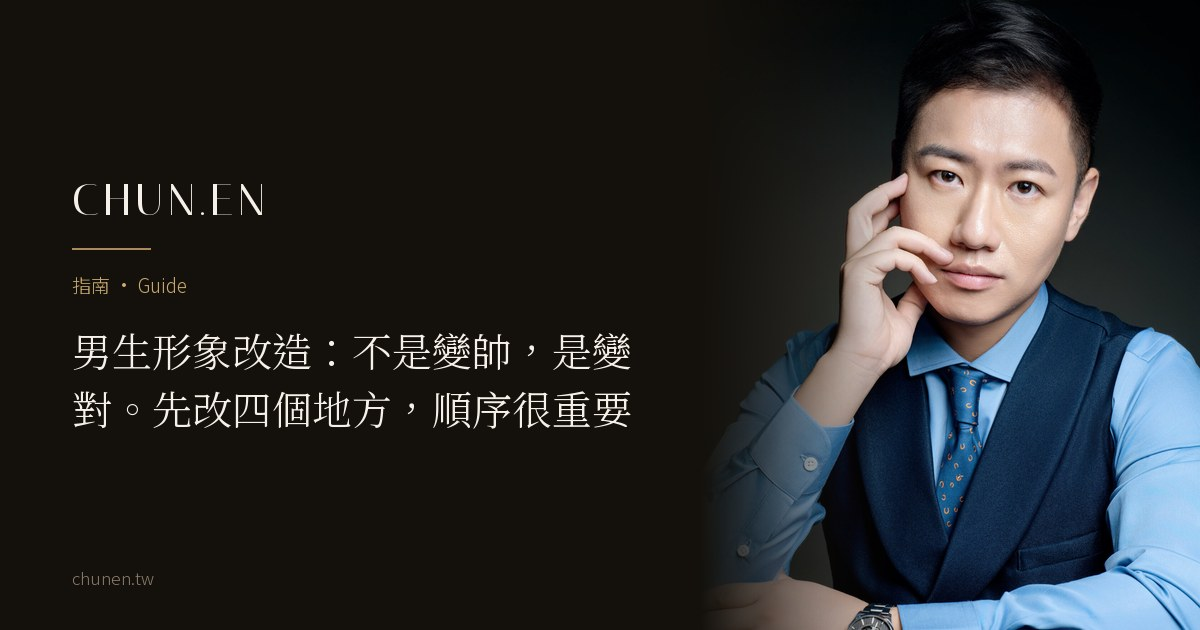
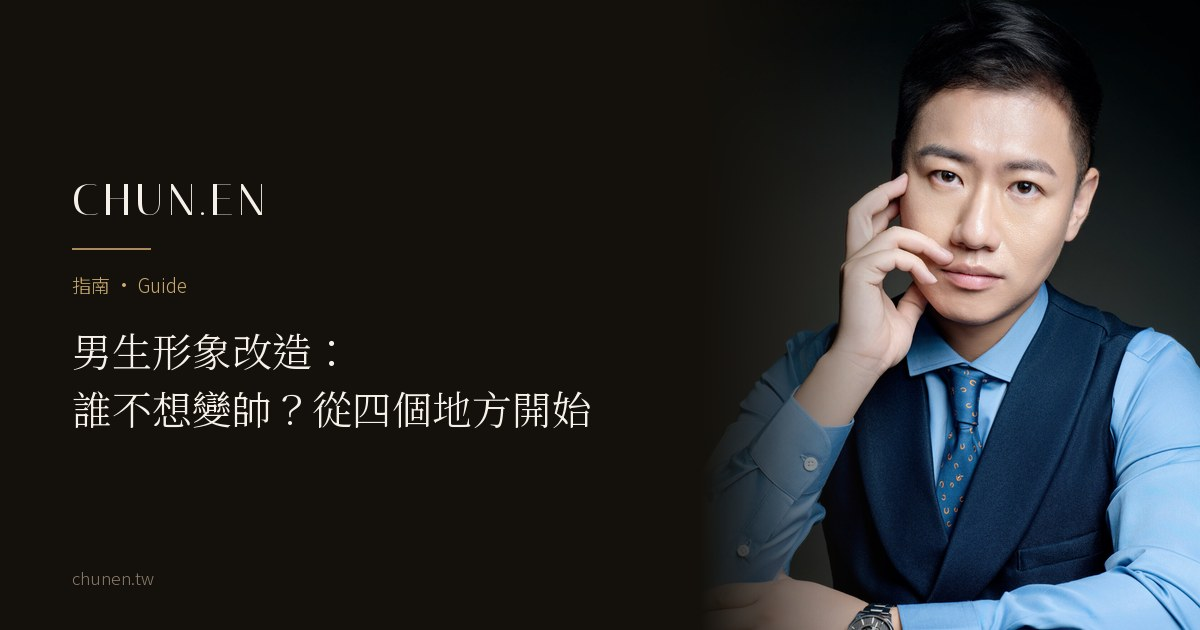
男士專欄兩篇照整合全文稿 v4 定稿上架（拿掉 noindex、加進專欄列表與 sitemap、重產分享卡）

Changed region(s): [[0.0617, 0.5127, 0.5242, 0.6937]]

diff --git a/journal/mens-image-makeover.html b/journal/mens-image-makeover.html
@@ -3,16 +3,15 @@
 <head>
   <meta charset="UTF-8" />
   <meta name="viewport" content="width=device-width, initial-scale=1.0, viewport-fit=cover" />
-  <title>男生形象改造：不是變帥，是變對。先改四個地方，順序很重要｜CHUN.EN 觀點</title>
-  <meta name="robots" content="noindex" /><!-- 草稿：Kay 審核後移除此行＋掛列表頁＋入 sitemap -->
-  <meta name="description" content="男生想改變形象，多半是有一場要見人的場合，或被說看起來很累。變帥是往範本靠，變對是讓人一眼看懂你現在的角色。四個最有效的改動有順序：髮型輪廓、合身、末端細節、膚況整理，前兩個做完八成的落差就沒了。" />
+  <title>男生形象改造：誰不想變帥？從四個地方開始｜CHUN.EN 觀點</title>
+  <meta name="description" content="男生想改變形象，常常是有重要的場合：面試、跑業務、上台，或是約會。想變帥很正常，關鍵在把自己的特質整理出來，穿得自在，自信就看得見。建議從四個地方動手：髮型輪廓、合身、末端細節、膚況與妝髮，先做花費少、改起來快的。" />
   <meta name="theme-color" content="#14100B" />
   <link rel="icon" href="/favicon.ico" sizes="48x48" />
   <link rel="icon" href="/favicon-32.png" type="image/png" sizes="32x32" />
   <link rel="apple-touch-icon" href="/apple-touch-icon.png" />
   <link rel="canonical" href="https://chunen.tw/journal/mens-image-makeover.html" />
-  <meta property="og:title" content="男生形象改造：不是變帥，是變對。先改四個地方，順序很重要" />
-  <meta property="og:description" content="男生的形象改造，第一件事不是買衣服，是先弄清楚你現在被看成什麼。" />
+  <meta property="og:title" content="男生形象改造：誰不想變帥？從四個地方開始" />
+  <meta property="og:description" content="想變帥很正常。把自己的特質整理出來，穿得自在，自信就看得見。" />
   <meta property="og:image" content="https://chunen.tw/assets/og/mens-image-makeover-og.jpg" />
   <meta property="og:image:width" content="1200" />
   <meta property="og:image:height" content="630" />
@@ -20,8 +19,8 @@
   <meta property="og:type" content="article" />
   <meta property="og:locale" content="zh_TW" />
   <meta name="twitter:card" content="summary_large_image" />
-  <meta name="twitter:title" content="男生形象改造：不是變帥，是變對。先改四個地方，順序很重要" />
-  <meta name="twitter:description" content="男生的形象改造，第一件事不是買衣服，是先弄清楚你現在被看成什麼。" />
+  <meta name="twitter:title" content="男生形象改造：誰不想變帥？從四個地方開始" />
+  <meta name="twitter:description" content="想變帥很正常。把自己的特質整理出來，穿得自在，自信就看得見。" />
   <meta name="twitter:image" content="https://chunen.tw/assets/og/mens-image-makeover-og.jpg" />
   <link rel="preconnect" href="https://fonts.googleapis.com" />
   <link rel="preconnect" href="https://fonts.gstatic.com" crossorigin />
@@ -70,7 +69,7 @@
     <header style="padding: clamp(9rem, 16vh, 11rem) 0 clamp(2rem, 4vh, 3rem);">
       <div class="wrap article-wrap">
         <p class="hero-eyebrow rv">指南 · Guide</p>
-        <h1 class="rv rv-d1" style="font-weight: 300; font-size: clamp(1.9rem, 4.4vw, 3.2rem); line-height: 1.4; margin-top: 1rem;"><span style="white-space:nowrap;">男生形象改造：</span><span style="white-space:nowrap;"><em style="font-style:normal;color:var(--gold-light);">不是變帥，是變對。先改四個地方，順序很重要</em></span></h1>
+        <h1 class="rv rv-d1" style="font-weight: 300; font-size: clamp(1.9rem, 4.4vw, 3.2rem); line-height: 1.4; margin-top: 1rem;"><span style="white-space:nowrap;">男生形象改造：</span><em style="font-style:normal;color:var(--gold-light);"><span style="white-space:nowrap;">誰不想變帥？</span><wbr><span style="white-space:nowrap;">從四個地方開始</span></em></h1>
         <p class="article-meta rv rv-d2">CHUN.EN 觀點 · 2026 · 閱讀約 5 分鐘</p>
       </div>
     </header>
@@ -83,64 +82,64 @@
       <div class="keypoints rv">
         <p class="kp-t">In This Article · 本文重點</p>
         <ul>
-          <li>男生想改變形象，多半不是想變帥，是有一場要見人的場合，或是被說「看起來很累」</li>
-          <li>變帥和變對差在哪：變帥是往一個範本靠，變對是讓別人一眼看懂你現在的角色</li>
-          <li>四個最有效的改動有順序：髮型輪廓、合身、末端細節、膚況整理。前兩個做完，八成的落差就沒了</li>
+          <li>男生想改變形象，常常是有重要的場合，或是被說氣色不好、沒精神。想變帥很正常，每個人改變，都是想變得更好</li>
+          <li>帥不必照著範本：把自己的特質整理出來，穿得自在，自信和魅力就會出來</li>
+          <li>建議從四個地方動手：髮型輪廓、合身、末端細節、膚況與妝髮。先做前兩個，花費少、改起來也快</li>
         </ul>
       </div>
 
       <div class="article-body rv">
-        <p class="article-lead">男生很少會說「我想做形象改造」。比較常聽到的是：下個月要面試、要開始跑業務、剛升上主管要對外簡報、要拍一張放在官網上的照片，或是被另一半、被同事說「你最近看起來很累」。</p>
-        <p>這些都是同一件事的不同入口。不是想變帥，是覺得現在的樣子，和自己要去的地方對不上。</p>
-        <p>男生的形象改造，不是換一個人，也不是往某個帥的範本靠，而是把髮型、服裝、細節與膚況整理到能對得上你現在的角色與場合。多數人的落差不在大項，在幾個小地方的累積，而且改動有順序。</p>
-        <h2>變帥和變對，<em>差在哪</em></h2>
-        <p>變帥是往一個範本靠：某位藝人的髮型、某個品牌的穿法。問題是那個範本不是為你的職業、你的客戶、你的場合設計的。一位工程師照著時尚雜誌改完，走進客戶的會議室，對方讀到的可能是「這個人在意穿搭」，而不是「這個人可靠」。</p>
-        <p>變對是反過來：先弄清楚別人現在怎麼看你、你希望他們怎麼看你，中間差在哪，再決定改什麼。同樣是改髮型，一位要開始帶團隊的主管和一位要開始接案的設計師，該往的方向不一樣。</p>
-        <blockquote>男生的形象改造，第一件事不是買衣服，是先弄清楚你現在被看成什麼。多數人跳過這一步，改完更不像自己。</blockquote>
+        <p class="article-lead">男生很少會說「我想做形象改造」。比較常聽到的是：下個月要面試、要開始跑業務、剛升上主管要對外簡報、要去約會、要拍一張放在官網上的照片，或是被另一半、被同事說「你最近氣色不太好」。</p>
+        <p>這些入口背後，其實是同一個念頭：想讓自己看起來更好。說白了，就是想變帥。這一點都不奇怪，每個人想改變，都是想變得更好。</p>
+        <p>要談的是怎麼變。男生的帥，很少來自長得像誰，多半來自看起來像自己：髮型、服裝、細節與膚況整理到位，穿起來自在，人就放得開，自信和魅力也跟著出來。要動的常常是幾個小地方，而且有先後。</p>
+        <h2>帥從<em>哪裡來</em></h2>
+        <p>很多人想變帥，第一步是找範本：某位藝人的髮型、某個品牌的穿法。範本可以參考，但它不是照你的臉型、身材、個性和生活設計的。照著改完，常見的情況是衣服很搶眼，人卻不太自在；穿得不自在，人很難放鬆，自信反而出不來。</p>
+        <p>比較好的做法是先看自己：你給人的感覺是沉穩、俐落，還是親切？平常會出現在哪些場合？你希望別人看到你哪一面？把這些想清楚，再決定改什麼。同樣是改髮型，一位要開始帶團隊的主管和一位要開始接案的設計師，適合的方向就不一樣。改完之後，別人看到的還是你，只是更有精神，也更有自信。</p>
         <p>這件事在〈<a href="which-version-of-you.html">先想清楚，要讓人看見哪一面</a>〉談得更完整。以下講的是方向確定之後，實際該從哪裡動手。</p>
         <h2>四個改動，<em>順序很重要</em></h2>
-        <p>男生的專業形象很少輸在大項，輸在小地方的累積。但也正因為這樣，改對幾個地方就會有明顯的差別。順序是依「影響力除以成本」排的：</p>
+        <p>改對幾個地方，就會有明顯的差別。我們通常建議從花費少、改起來快的開始：</p>
         <div class="tbl-scroll">
         <table>
           <thead><tr><th>順序</th><th>改什麼</th><th>為什麼先做</th><th>大概要做什麼</th></tr></thead>
           <tbody>
-            <tr><td>1</td><td>髮型輪廓</td><td>臉的外框，決定精神度；成本最低、效果最快</td><td>鬢角與後頸線乾淨、頂部有型；三到四週修一次。不是換髮型，是把現在的髮型修到有輪廓</td></tr>
+            <tr><td>1</td><td>髮型輪廓</td><td>臉的外框，影響整個人看起來有沒有精神；花費最少、改起來最快</td><td>鬢角與後頸線乾淨、頂部有型；三到四週修一次。不是換髮型，是把現在的髮型修到有輪廓</td></tr>
             <tr><td>2</td><td>合身</td><td>一件合身的舊西裝，比一件不合身的新西裝好；鏡頭與現實都看得出來</td><td>肩線落在肩點、袖長露出襯衫一點、褲長輕觸鞋面。既有的衣服先拿去修改，通常比買新的划算</td></tr>
-            <tr><td>3</td><td>末端細節</td><td>資深的對象看的是鞋、錶、領口、指甲</td><td>皮鞋有光、鞋跟不磨斜；領口不鬆垮不泛黃；指甲與鬍子有意識地處理</td></tr>
-            <tr><td>4</td><td>膚況與妝感</td><td>油光、眼下疲態、膚色不均，是「看起來很累」的來源；也是照片與上台最先被看到的</td><td>基本清潔保濕；重要場合或拍攝前交給造型師做自然整理，不需要看得出化了妝</td></tr>
+            <tr><td>3</td><td>末端細節</td><td>鞋、錶、領口、指甲，是整套穿搭的收尾</td><td>皮鞋依材質保養、鞋跟沒有明顯磨損；領口不鬆垮不泛黃；指甲與鬍子有意識地處理</td></tr>
+            <tr><td>4</td><td>膚況與妝髮</td><td>油光、眼下疲態、膚色不均，常讓人看起來氣色不好、沒精神，照片與上台時也會被放大</td><td>日常做好清潔與保濕；重要場合或拍攝前，可以請造型師協助膚色修飾與妝髮整理。妝感的濃淡與造型方向，依場合和個人喜好討論</td></tr>
           </tbody>
         </table>
         </div>
-        <p>前兩項做完，八成的落差通常就沒了。第三、四項是把「還可以」推到「這個人對細節是清楚的」。</p>
+        <p>前兩項先做好，整體會俐落很多；第三、四項是收尾，讓細節也跟得上。</p>
         <p>逐項的檢查清單，在〈<a href="mens-grooming-checklist.html">男士商務形象自檢十二項</a>〉可以照著跑一次。</p>
         <figure class="article-fig crop45">
-          <picture style="display:block"><source type="image/webp" srcset="../assets/gallery/works/06-760.webp 760w, ../assets/gallery/works/06-1240.webp 1240w" sizes="(max-width: 700px) calc(100vw - 40px), 620px" /><img src="../assets/gallery/works/06-1400.jpg" alt="灰西裝黑襯衫的男性形象照，髮型輪廓與合身是最先看到的兩件事" width="1400" height="2100" loading="lazy" /></picture>
-          <figcaption>髮型輪廓與合身做對，八成的落差就沒了；細節與膚況是把「還可以」推到「這個人對細節是清楚的」。（CHUN.EN 實際拍攝作品）</figcaption>
+          <picture style="display:block"><source type="image/webp" srcset="../assets/gallery/works/06-760.webp 760w, ../assets/gallery/works/06-1240.webp 1240w" sizes="(max-width: 700px) calc(100vw - 40px), 620px" /><img src="../assets/gallery/works/06-1400.jpg" alt="灰西裝黑襯衫的男性形象照" width="1400" height="2100" loading="lazy" /></picture>
+          <figcaption>髮型與合身整理好之後的商務形象。（CHUN.EN 實際拍攝作品）</figcaption>
         </figure>
-        <h2>最常見的三個錯</h2>
+        <h2>常見的三個錯</h2>
         <p>為了改變而全部換新。新衣服不會服貼身體與慣性姿態，鏡頭全部看得出來。先修改既有的，再決定要補什麼。</p>
         <p>只改衣服不改頭。髮型是臉的外框，衣服再對、輪廓不對，讀起來還是沒精神。</p>
-        <p>改成另一個人。同事與客戶認得的是原本的你，改到需要重新認一次，反而扣分。變對的意思是「還是你，但更清楚」。</p>
+        <p>改成另一個人。同事與客戶認得的是原本的你，改到需要重新認一次，反而扣分。帥要建立在你自己的特質上，改完還是你，只是更好看、更有自信。</p>
         <h2>場合決定力度</h2>
         <p>同樣的四個改動，力度依場合調：</p>
         <p>面試與第一次見客戶。正式度往上一級，但不要比日常正式兩級，見面時的落差會變成扣分。</p>
         <p>簡報與上台。髮型輪廓與膚況最重要，因為距離遠、燈光強，細節看不到，輪廓看得到。</p>
         <p>拍形象照。四項全做，而且要在拍之前兩到四週開始，髮型修完要有時間長回自然的樣子。</p>
+        <p>約會。先看當天要去哪裡、做什麼，再挑你喜歡、穿起來也自在的衣服。想多花一點心思，可以從搭配、髮型或配件調整。</p>
         <p>婚禮賓客與家屬。分寸比造型重要，整齊但不搶焦點。</p>
         <h2>在台中怎麼做</h2>
-        <p>CHUN.EN 接到男生的委託，通常從一場訪談開始：你現在被看成什麼、想被看成什麼、會出現在哪些場合。這是 À Voir 的角色定位在處理的事，訪談線上或到場都可以。</p>
-        <p>方向確定之後，才是四個改動的執行。服裝的方向與選品由 À Voir 接手；髮型與膚況的整理、重要場合前的自然妝感由 B.room 處理，男生的妝髮以自然整理為主，不會讓人看出化了妝；需要一組能用的照片，由 C.photos 在同一個方向下拍攝。三項可以單獨委託，也可以一次整合。</p>
+        <p>CHUN.EN 接到男生的委託，通常從一場訪談開始：你現在給人什麼感覺、想讓別人看到什麼樣子、會出現在哪些場合。這是 À Voir 的角色定位在處理的事，訪談線上或到場都可以。</p>
+        <p>方向確定之後，才是四個改動的執行。服裝的方向與選品由 À Voir 接手；髮型整理、膚色修飾與重要場合的妝髮，可以向 B.room 洽詢，依場合和你的喜好討論造型；需要一組能用的照片，由 C.photos 在同一個方向下拍攝。三項可以單獨委託，也可以一次整合。想了解穿搭、妝髮或課程的內容與費用，可以參考〈<a href="../men.html">男士形象顧問</a>〉。</p>
         <h2>讀完這篇，<em>先做一件事</em></h2>
         <p>打開你最近一次被拍到的照片，不管是活動側拍還是自拍，問一個問題：</p>
-        <p>這個人，看起來像我現在的角色嗎？</p>
-        <p>不像的話，先看髮型輪廓和合身，那是最便宜也最快的兩步。</p>
+        <p>照片裡的這個人，是我想讓別人看到的樣子嗎？</p>
+        <p>不是的話，先看髮型輪廓和合身，那是最便宜也最快的兩步。</p>
 
         <h2>常見<em>問題</em></h2>
         <div class="faq">
-          <details><summary>男生也需要形象顧問嗎？<span class="mark">+</span></summary><div class="a">需要的是「方向」，不一定是頭銜。多數男生的問題不在不會穿，在不知道自己現在被看成什麼、該往哪裡調。方向清楚之後，改動的順序與力度自己就能判斷。形象顧問處理的是前面那一段，執行可以自己做，也可以交給造型師。</div></details>
+          <details><summary>男生也需要形象顧問嗎？<span class="mark">+</span></summary><div class="a">需要的是「方向」，不一定是頭銜。問題常常不在不會穿，而在不知道哪種樣子最適合自己、該往哪裡調。方向清楚之後，改動的順序與力度自己就能判斷。形象顧問處理的是前面那一段，執行可以自己做，也可以交給造型師。</div></details>
           <details><summary>男生形象改造要花多久？<span class="mark">+</span></summary><div class="a">髮型與合身修改，兩到四週就看得到差別。膚況與細節是持續的習慣。如果目標是一場特定的場合或拍攝，建議提前一個月開始，髮型修完要有時間長回自然的樣子。</div></details>
-          <details><summary>男生要化妝嗎？<span class="mark">+</span></summary><div class="a">日常不需要。重要場合、上台與拍攝前，交給造型師做自然整理：膚色不均、油光、眉型與髮型輪廓。做完的標準是「看起來有精神」，不是「看得出化了妝」。</div></details>
-          <details><summary>我完全不會穿衣服，從哪裡開始？<span class="mark">+</span></summary><div class="a">從合身開始，不是從款式開始。把現在最常穿的三套拿去修改到合身，通常比買新的更有效。之後再依角色與場合決定要補哪一件，這時候找人幫忙挑會比自己逛省很多時間。</div></details>
+          <details><summary>男生要化妝嗎？<span class="mark">+</span></summary><div class="a">不一定，看場合和你的喜好。想修飾膚色不均、油光或眉型，可以從自己在意的地方開始；重要場合、上台與拍攝前，也可以請造型師整理。喜歡明顯一點的妝感，可以先和造型師討論。</div></details>
+          <details><summary>我完全不會穿衣服，從哪裡開始？<span class="mark">+</span></summary><div class="a">從合身開始，不是從款式開始。把現在最常穿的三套拿去修改到合身，通常比買新的更有效。之後再依自己的特質與場合決定要補哪一件，這時候找人幫忙挑會比自己逛省很多時間。</div></details>
         </div>
 
       </div>
@@ -160,7 +159,7 @@
       <div class="related rv">
         <p class="related-t">相關閱讀 · Related</p>
         <a href="mens-grooming-checklist.html">男士商務形象自檢十二項：髮、眉、鬍、鞋一次盤點</a>
-        <a href="custom-suit-consulting.html">訂製西裝要決定的不只是尺寸</a>
+        <a href="image-before-ability.html">「形象走在能力前面」：先被看見，能力才有機會被驗證</a>
         <a href="portrait-vs-personal-brand.html">形象照和個人品牌形象照差在哪？</a>
       </div>
 
@@ -188,13 +187,13 @@
   {
     "@context": "https://schema.org",
     "@type": "Article",
-    "headline": "男生形象改造：不是變帥，是變對。先改四個地方，順序很重要",
-    "description": "男生想改變形象，多半是有一場要見人的場合，或被說看起來很累。變帥是往範本靠，變對是讓人一眼看懂你現在的角色。四個最有效的改動有順序：髮型輪廓、合身、末端細節、膚況整理，前兩個做完八成的落差就沒了。",
+    "headline": "男生形象改造：誰不想變帥？從四個地方開始",
+    "description": "男生想改變形象，常常是有重要的場合：面試、跑業務、上台，或是約會。想變帥很正常，關鍵在把自己的特質整理出來，穿得自在，自信就看得見。建議從四個地方動手：髮型輪廓、合身、末端細節、膚況與妝髮，先做花費少、改起來快的。",
     "image": "https://chunen.tw/assets/gallery/works/17-1400.jpg",
     "author": {"@type": "Person", "@id": "https://chunen.tw/author/zoey-wu.html#zoey", "name": "吳惇恩", "alternateName": "Zoey Wu", "jobTitle": "Founder & Brand Director", "image": "https://chunen.tw/assets/images/zoey-author-640.jpg", "url": "https://chunen.tw/author/zoey-wu.html"},
     "publisher": {"@type": "Organization", "@id": "https://chunen.tw/#business", "name": "CHUN.EN 形象美學", "logo": {"@type": "ImageObject", "url": "https://chunen.tw/icon-512.png"}},
     "datePublished": "2026-09-06",
-    "dateModified": "2026-09-06",
+    "dateModified": "2026-11-13",
     "inLanguage": "zh-Hant-TW",
     "isPartOf": {"@id": "https://chunen.tw/#website"},
     "mainEntityOfPage": "https://chunen.tw/journal/mens-image-makeover.html"
@@ -213,7 +212,7 @@
       "name": "男生也需要形象顧問嗎？",
       "acceptedAnswer": {
         "@type": "Answer",
-        "text": "需要的是「方向」，不一定是頭銜。多數男生的問題不在不會穿，在不知道自己現在被看成什麼、該往哪裡調。方向清楚之後，改動的順序與力度自己就能判斷。形象顧問處理的是前面那一段，執行可以自己做，也可以交給造型師。"
+        "text": "需要的是「方向」，不一定是頭銜。問題常常不在不會穿，而在不知道哪種樣子最適合自己、該往哪裡調。方向清楚之後，改動的順序與力度自己就能判斷。形象顧問處理的是前面那一段，執行可以自己做，也可以交給造型師。"
       }
     },
     {
@@ -229,7 +228,7 @@
       "name": "男生要化妝嗎？",
       "acceptedAnswer": {
         "@type": "Answer",
-        "text": "日常不需要。重要場合、上台與拍攝前，交給造型師做自然整理：膚色不均、油光、眉型與髮型輪廓。做完的標準是「看起來有精神」，不是「看得出化了妝」。"
+        "text": "不一定，看場合和你的喜好。想修飾膚色不均、油光或眉型，可以從自己在意的地方開始；重要場合、上台與拍攝前，也可以請造型師整理。喜歡明顯一點的妝感，可以先和造型師討論。"
       }
     },
     {
@@ -237,7 +236,7 @@
       "name": "我完全不會穿衣服，從哪裡開始？",
       "acceptedAnswer": {
         "@type": "Answer",
-        "text": "從合身開始，不是從款式開始。把現在最常穿的三套拿去修改到合身，通常比買新的更有效。之後再依角色與場合決定要補哪一件，這時候找人幫忙挑會比自己逛省很多時間。"
+        "text": "從合身開始，不是從款式開始。把現在最常穿的三套拿去修改到合身，通常比買新的更有效。之後再依自己的特質與場合決定要補哪一件，這時候找人幫忙挑會比自己逛省很多時間。"
       }
     }
   ]
@@ -264,7 +263,7 @@
       {
         "@type": "ListItem",
         "position": 3,
-        "name": "男生形象改造：不是變帥，是變對。先改四個地方，順序很重要",
+        "name": "男生形象改造：誰不想變帥？從四個地方開始",
         "item": "https://chunen.tw/journal/mens-image-makeover.html"
       }
     ]

diff --git a/journal/mens-grooming-checklist.html b/journal/mens-grooming-checklist.html
@@ -3,7 +3,6 @@
 <head>
   <meta charset="UTF-8" />
   <meta name="viewport" content="width=device-width, initial-scale=1.0, viewport-fit=cover" />
-  <meta name="robots" content="noindex" /><!-- 草稿：審核後移除此行＋掛列表頁＋入 sitemap -->
   <title>男士商務形象自檢十二項：髮、眉、鬍、鞋一次盤點｜CHUN.EN 觀點</title>
   <meta name="description" content="男士的專業形象輸的常常不是大項，是十二個小地方的累積：髮型輪廓、眉、鬍、鼻毛、油光、領口、袖長、褲長、皮鞋、皮帶、指甲、氣味。每月一次十分鐘自檢清單，重要場合前必跑。" />
   <meta name="theme-color" content="#14100B" />
@@ -77,7 +76,7 @@
 
     <div class="wrap article-wrap">
       <div class="jcard-media rv" style="aspect-ratio: auto; width: auto; max-width: 620px; margin: 0 auto clamp(2.5rem, 6vh, 4rem);">
-        <picture style="display:block"><source type="image/webp" srcset="../assets/gallery/bts/makeup-men-760.webp 760w, ../assets/gallery/bts/makeup-men-1240.webp 1240w" sizes="(max-width: 700px) calc(100vw - 40px), 620px" /><img src="../assets/gallery/bts/makeup-men-1400.jpg" alt="男士商務形象整理，無妝感的狀態工程現場" style="width:100%;height:auto;display:block;" width="1400" height="2100" fetchpriority="high" /></picture>
+        <picture style="display:block"><source type="image/webp" srcset="../assets/gallery/bts/makeup-men-760.webp 760w, ../assets/gallery/bts/makeup-men-1240.webp 1240w" sizes="(max-width: 700px) calc(100vw - 40px), 620px" /><img src="../assets/gallery/bts/makeup-men-1400.jpg" alt="男士商務妝髮整理的現場" style="width:100%;height:auto;display:block;" width="1400" height="2100" fetchpriority="high" /></picture>
       </div>
 
       <div class="keypoints rv">
@@ -85,64 +84,63 @@
         <ul>
           <li>男士的專業形象很少輸在大項，輸在小地方的累積</li>
           <li>十二項自檢：頭部五項、服裝四項、末端三項，每月十分鐘</li>
-          <li>原則只有一條：整齊不是造型，是管理能力的視覺證據</li>
+          <li>先檢查頭髮、眉鬍、衣服與鞋子是否整理妥當，再依工作場合和自己的喜好搭配</li>
         </ul>
       </div>
 
       <div class="article-body rv">
         <p class="article-lead">很少有客戶會說「他的鬍子沒修所以我不信任他」。</p>
-        <p>但每一個沒修的細節，都在無聲扣分：過長的鬢角、雜掉的眉、起毛球的領口、磨白的鞋跟，單看都是小事，<strong>加總起來就是「這個人對細節是鬆的」</strong>。而你的專業，恰恰是靠細節被信任的。</p>
+        <p>但每一個沒修的細節，都在無聲扣分：過長的鬢角、雜掉的眉、起毛球的領口、磨白的鞋跟，單看都是小事，<strong>加總起來就是「這個人對細節是鬆的」</strong>。而在工作場合，這些細節常常就是別人對你的第一印象。</p>
         <p>這份十二項清單，每月跑一次十分鐘，重要場合前必跑。</p>
 
-        <h2>頭部五項<em>（影響力最大）</em></h2>
+        <h2>頭部五項<em>（從臉開始）</em></h2>
         <div class="tbl-scroll">
         <table>
           <thead><tr><th>#</th><th>項目</th><th>及格線</th><th>頻率</th></tr></thead>
           <tbody>
-            <tr><td>1</td><td>髮型輪廓</td><td>鬢角與後頸線乾淨、頂部有型，輪廓決定精神度</td><td>3–4 週修剪一次</td></tr>
-            <tr><td>2</td><td>眉毛</td><td>修掉雜毛與連心，保留自然形狀，眉決定表情的明確度</td><td>2 週檢查</td></tr>
-            <tr><td>3</td><td>鬍</td><td>全淨或有意識地留型，二選一，「忘記刮」不是風格</td><td>每日/依鬍型</td></tr>
+            <tr><td>1</td><td>髮型輪廓</td><td>鬢角與後頸線乾淨、頂部有型，輪廓影響整個人有沒有精神</td><td>3–4 週修剪一次</td></tr>
+            <tr><td>2</td><td>眉毛</td><td>修掉雜毛與連心，保留自然形狀，眉型影響表情看起來清不清楚</td><td>2 週檢查</td></tr>
+            <tr><td>3</td><td>鬍</td><td>全淨或有意識地留型，二選一，「忘記刮」不是風格</td><td>每日／依鬍型</td></tr>
             <tr><td>4</td><td>鼻毛耳毛</td><td>正面與側面都看不見</td><td>每週</td></tr>
-            <tr><td>5</td><td>膚況油光</td><td>基本清潔保濕＋重要場合前吸油面紙，油光是照片頭號殺手</td><td>每日</td></tr>
+            <tr><td>5</td><td>膚況油光</td><td>基本清潔保濕；重要場合前，可以用吸油面紙輕按出油的地方</td><td>每日</td></tr>
           </tbody>
         </table>
         </div>
 
-        <h2>服裝四項<em>（合身是唯一標準）</em></h2>
+        <h2>服裝四項<em>（先看合不合身）</em></h2>
         <div class="tbl-scroll">
         <table>
           <thead><tr><th>#</th><th>項目</th><th>及格線</th></tr></thead>
           <tbody>
-            <tr><td>6</td><td>領口</td><td>不鬆垮、不起毛球、不泛黃，襯衫領是視線最常停的地方</td></tr>
+            <tr><td>6</td><td>領口</td><td>不鬆垮、不起毛球、不泛黃；襯衫領很靠近臉，很容易被看到</td></tr>
             <tr><td>7</td><td>肩線與袖長</td><td>肩線落在肩點；西裝袖露出襯衫 1–1.5 公分</td></tr>
-            <tr><td>8</td><td>褲長</td><td>站立時輕觸鞋面、無堆積；過長的褲腳毀掉整套西裝</td></tr>
+            <tr><td>8</td><td>褲長</td><td>站立時輕觸鞋面、無堆積；褲腳過長，整套西裝會顯得拖沓</td></tr>
             <tr><td>9</td><td>熨燙</td><td>重要場合的襯衫必燙，皺褶讀起來就是「趕出門」</td></tr>
           </tbody>
         </table>
         </div>
 
-        <h2>末端三項<em>（老手看的地方）</em></h2>
+        <h2>末端三項<em>（整套穿搭的收尾）</em></h2>
         <div class="tbl-scroll">
         <table>
           <thead><tr><th>#</th><th>項目</th><th>及格線</th></tr></thead>
           <tbody>
-            <tr><td>10</td><td>皮鞋</td><td>鞋面有光、鞋跟不磨斜，愈資深的對象愈會看鞋</td></tr>
-            <tr><td>11</td><td>皮帶與配件</td><td>皮帶與鞋同色系；錶帶乾淨；配件總數不超過三件</td></tr>
+            <tr><td>10</td><td>皮鞋</td><td>依鞋面材質清潔保養，鞋跟沒有明顯磨損</td></tr>
+            <tr><td>11</td><td>皮帶與配件</td><td>皮帶可以先和鞋子同色系；錶帶保持乾淨；其他配件依服裝和場合選，戴上後看整體是否協調</td></tr>
             <tr><td>12</td><td>指甲與氣味</td><td>指甲短而乾淨；氣味以「無異味」為底線，香氛淡至半步內才聞到</td></tr>
           </tbody>
         </table>
         </div>
-        <blockquote>整齊不是造型，是管理能力的視覺證據，客戶把你對細節的態度，讀成你對他案子的態度。</blockquote>
 
         <h2>把十二項變成<em>系統</em></h2>
         <p>三個讓清單自動運轉的做法：<strong>固定週期</strong>，理髮排每月固定那一週，不等「看起來亂了」才去；<strong>前一晚準備</strong>，重要場合的服裝前一晚掛出來檢查 6–9 項，當天早上只處理頭部；<strong>手機裡存這份清單</strong>，拍照日、提案日、面試日，出門前跑一遍。</p>
-        <p>十二項是及格線。要從及格走到「有定位的出色」，髮型與鬍型跟臉型的搭配（見〈<a href="face-shape-neckline-hair.html">臉型怎麼選領口與髮型</a>〉）、上鏡場合的膚況與輪廓整理（見〈<a href="business-hair-makeup.html">商務妝髮</a>〉的男士段）、以及整體角色定位，那是 <a href="../b-room.html">B.room</a> 與 <a href="../a-voir.html">À Voir</a> 的工作了。</p>
+        <p>十二項是基本功。想再往前一步，例如髮型、鬍型怎麼配合臉型，或上鏡場合的妝髮（見〈<a href="business-hair-makeup.html">商務妝髮</a>〉的男士段），可以洽詢 <a href="../b-room.html">B.room</a>；想調整穿搭或釐清整體形象方向，可以了解 <a href="../a-voir.html">À Voir</a>。相關內容與費用整理在〈<a href="../men.html">男士形象顧問</a>〉頁。</p>
 
         <h2>常見<em>問題</em></h2>
         <div class="faq">
           <details><summary>男士保養品要買一堆嗎？<span class="mark">+</span></summary><div class="a">不用。底線三樣：洗面乳、保濕、防曬。加分兩樣：吸油面紙（重要場合前）、護唇膏（乾裂的唇在近距離很明顯）。超過這五樣，先把十二項基本功做穩再說。</div></details>
-          <details><summary>髮量稀疏，怎麼處理最得體？<span class="mark">+</span></summary><div class="a">短，永遠比遮好。稀疏處留長去蓋，遠看近看都欲蓋彌彰；剪短甚至剃平，反而俐落有型、顯得坦然自信。搭配眉型與鬍型撐住臉部結構，是造型師處理這題的常用手法。</div></details>
-          <details><summary>這些自己做就好，什麼時候需要專業介入？<span class="mark">+</span></summary><div class="a">日常十二項自己做綽綽有餘。三個時機值得找專業：形象照拍攝日（鏡頭的標準比肉眼嚴）、上台與上鏡的決定性場合（強光放大一切）、以及想從「整齊」升級到「有定位的風格」的時候，那是一次規劃、長期受益的投資。</div></details>
+          <details><summary>髮量比較少，髮型可以怎麼整理？<span class="mark">+</span></summary><div class="a">先看髮量分布與平常怎麼整理，再決定長度。可以請髮型設計師看過，討論哪些地方保留、哪些地方修短，不必一律剪短或剃平。有留鬍子的習慣，也可以一併調整眉型與鬍型，讓整體搭配更協調。</div></details>
+          <details><summary>這些自己做就好，什麼時候需要專業介入？<span class="mark">+</span></summary><div class="a">日常十二項自己做綽綽有餘。三個時機值得找專業：形象照拍攝日（鏡頭比肉眼看得更清楚）、上台與上鏡的重要場合（強光會放大細節）、以及想從「整齊」再往前，建立自己風格的時候。</div></details>
         </div>
 
       </div>
@@ -162,7 +160,7 @@
       <div class="related rv">
         <p class="related-t">相關閱讀 · Related</p>
         <a href="business-hair-makeup.html">商務妝髮是什麼？簡報與會議前怎麼準備</a>
-        <a href="face-shape-neckline-hair.html">圓臉、方臉、長臉：臉型怎麼選領口與髮型</a>
+        <a href="mens-image-makeover.html">男生形象改造：誰不想變帥？從四個地方開始</a>
         <a href="executive-presence-explained.html">Executive Presence：高階主管氣場，來自三種訊號的一致</a>
       </div>
 
@@ -196,7 +194,7 @@
     "author": {"@type": "Person", "@id": "https://chunen.tw/author/zoey-wu.html#zoey", "name": "吳惇恩", "alternateName": "Zoey Wu", "jobTitle": "Founder & Brand Director", "image": "https://chunen.tw/assets/images/zoey-author-640.jpg", "url": "https://chunen.tw/author/zoey-wu.html"},
     "publisher": {"@type": "Organization", "@id": "https://chunen.tw/#business", "name": "CHUN.EN 形象美學", "logo": {"@type": "ImageObject", "url": "https://chunen.tw/icon-512.png"}},
     "datePublished": "2026-07-21",
-    "dateModified": "2026-07-21",
+    "dateModified": "2026-11-13",
     "inLanguage": "zh-Hant-TW",
     "isPartOf": {"@id": "https://chunen.tw/#website"},
     "mainEntityOfPage": "https://chunen.tw/journal/mens-grooming-checklist.html"
@@ -211,8 +209,8 @@
     "@type": "FAQPage",
     "mainEntity": [
       {"@type": "Question", "name": "男士保養品要買一堆嗎？", "acceptedAnswer": {"@type": "Answer", "text": "不用。底線三樣：洗面乳、保濕、防曬。加分兩樣：吸油面紙（重要場合前）、護唇膏（乾裂的唇在近距離很明顯）。超過這五樣，先把十二項基本功做穩再說。"}},
-      {"@type": "Question", "name": "髮量稀疏，怎麼處理最得體？", "acceptedAnswer": {"@type": "Answer", "text": "短，永遠比遮好。稀疏處留長去蓋，遠看近看都欲蓋彌彰；剪短甚至剃平，反而俐落有型、顯得坦然自信。搭配眉型與鬍型撐住臉部結構，是造型師處理這題的常用手法。"}},
-      {"@type": "Question", "name": "這些自己做就好，什麼時候需要專業介入？", "acceptedAnswer": {"@type": "Answer", "text": "日常十二項自己做綽綽有餘。三個時機值得找專業：形象照拍攝日（鏡頭的標準比肉眼嚴）、上台與上鏡的決定性場合（強光放大一切）、以及想從「整齊」升級到「有定位的風格」的時候，那是一次規劃、長期受益的投資。"}}
+      {"@type": "Question", "name": "髮量比較少，髮型可以怎麼整理？", "acceptedAnswer": {"@type": "Answer", "text": "先看髮量分布與平常怎麼整理，再決定長度。可以請髮型設計師看過，討論哪些地方保留、哪些地方修短，不必一律剪短或剃平。有留鬍子的習慣，也可以一併調整眉型與鬍型，讓整體搭配更協調。"}},
+      {"@type": "Question", "name": "這些自己做就好，什麼時候需要專業介入？", "acceptedAnswer": {"@type": "Answer", "text": "日常十二項自己做綽綽有餘。三個時機值得找專業：形象照拍攝日（鏡頭比肉眼看得更清楚）、上台與上鏡的重要場合（強光會放大細節）、以及想從「整齊」再往前，建立自己風格的時候。"}}
     ]
   }
   </script>

diff --git a/journal/index.html b/journal/index.html
@@ -85,6 +85,24 @@
         </a>
       </div>
       <div class="journal-list rv">
+        <a class="jrow" href="mens-image-makeover.html">
+          <div class="jrow-media"><picture style="display:block"><source type="image/webp" srcset="../assets/gallery/works/17-760.webp 760w, ../assets/gallery/works/17-1240.webp 1240w" sizes="(max-width: 860px) calc(100vw - 40px), 50vw" /><img src="../assets/gallery/works/17-1400.jpg" alt="藍色背心西裝的男性半身形象照" loading="lazy" /></picture></div>
+          <div class="jrow-body">
+            <span class="jcard-cat">指南 · Guide</span>
+            <h3>男生形象改造：誰不想變帥？從四個地方開始</h3>
+            <p>想變帥很正常，關鍵在把自己的特質整理出來，穿得自在，自信就看得見。從髮型輪廓、合身、末端細節、膚況與妝髮四個地方動手，先做花費少、改起來快的。</p>
+            <span class="jcard-meta">2026 · 閱讀約 5 分鐘</span>
+          </div>
+        </a>
+        <a class="jrow" href="mens-grooming-checklist.html">
+          <div class="jrow-media"><picture style="display:block"><source type="image/webp" srcset="../assets/gallery/bts/makeup-men-760.webp 760w, ../assets/gallery/bts/makeup-men-1240.webp 1240w" sizes="(max-width: 860px) calc(100vw - 40px), 50vw" /><img src="../assets/gallery/bts/makeup-men-1400.jpg" alt="男士商務妝髮整理的現場" loading="lazy" /></picture></div>
+          <div class="jrow-body">
+            <span class="jcard-cat">指南 · Guide</span>
+            <h3>男士商務形象自檢十二項：髮、眉、鬍、鞋一次盤點</h3>
+            <p>髮型輪廓、眉、鬍、鼻毛、油光、領口、袖長、褲長、皮鞋、皮帶、指甲、氣味，十二個小地方每月花十分鐘檢查一次，重要場合前再跑一遍。</p>
+            <span class="jcard-meta">2026 · 閱讀約 5 分鐘</span>
+          </div>
+        </a>
         <a class="jrow" href="camera-shy-portrait-guide.html">
           <div class="jrow-media"><picture style="display:block"><source type="image/webp" srcset="../assets/gallery/journal/camera-shy-portrait-guide-hero-v1-760.webp 760w, ../assets/gallery/journal/camera-shy-portrait-guide-hero-v1-1240.webp 1240w" sizes="(max-width: 860px) calc(100vw - 40px), 50vw" /><img src="../assets/gallery/journal/camera-shy-portrait-guide-hero-v1-1400.jpg" alt="穿條紋襯衫的男士坐著看向一旁，神情放鬆的形象照" loading="lazy" /></picture></div>
           <div class="jrow-body">
